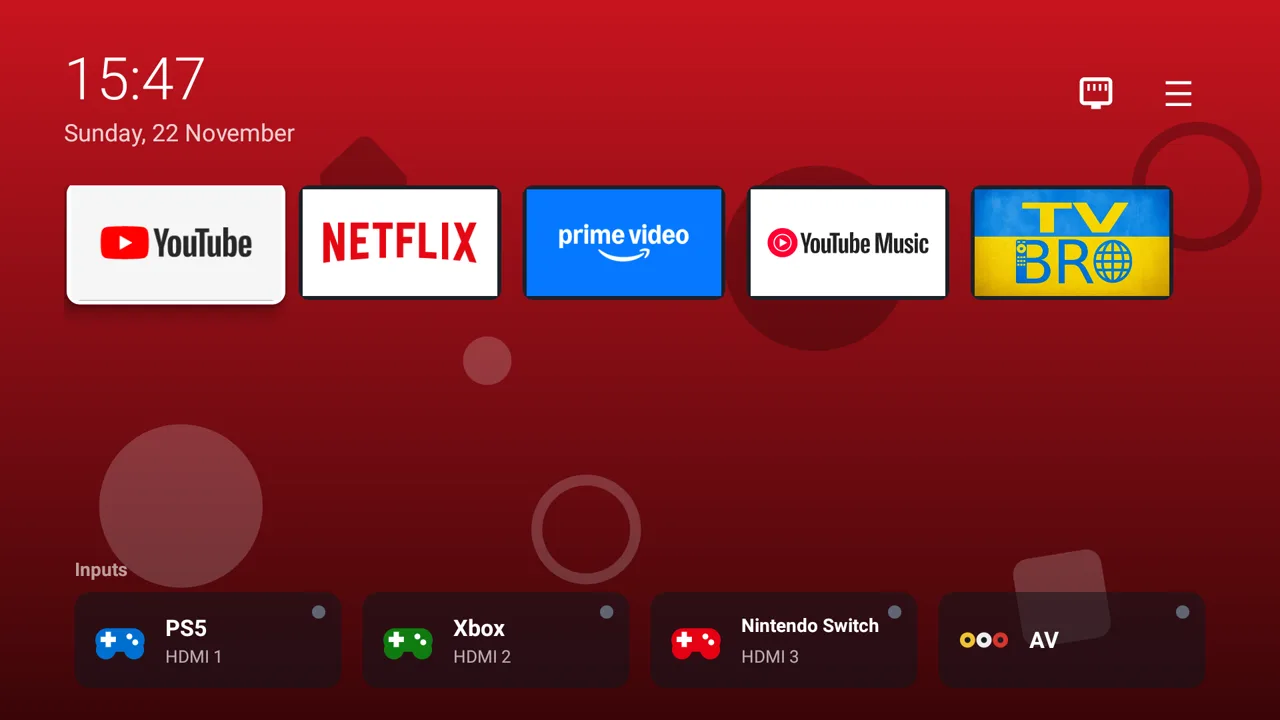
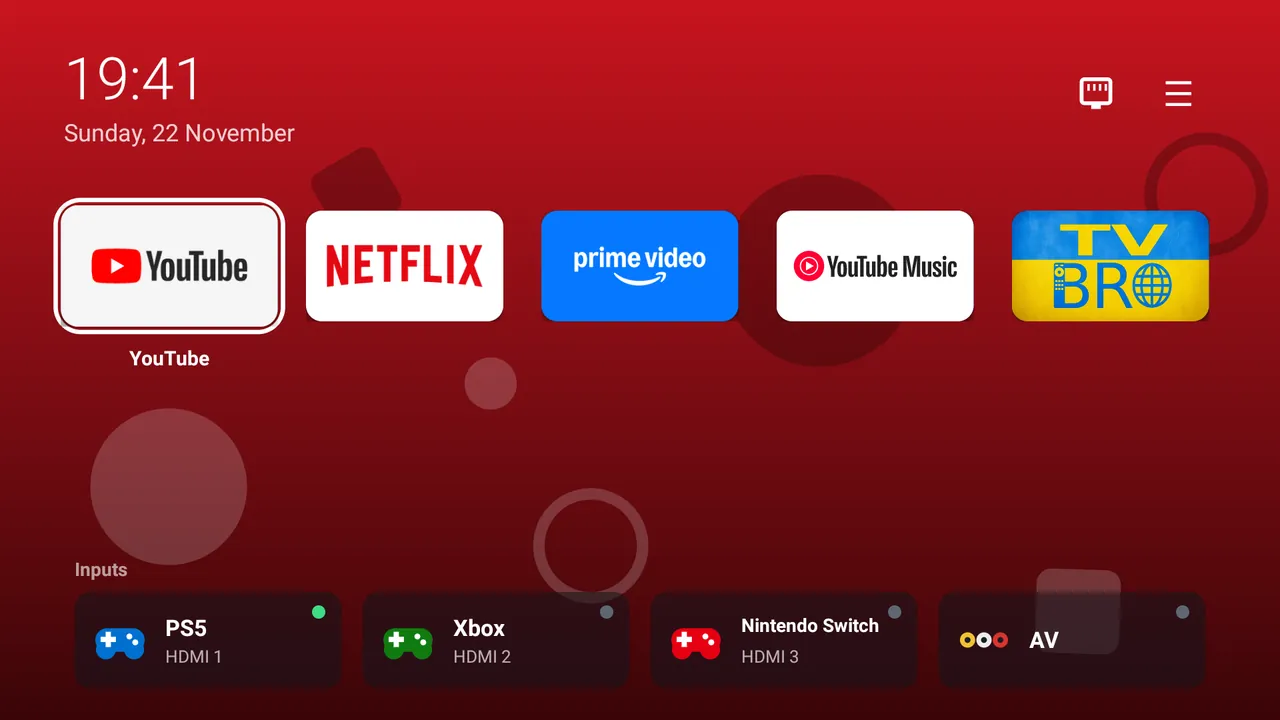
fix(launcher): keep the zoomed edge tiles unclipped; docs and screenshots for new tiles (#29)

diff --git a/apps/home/src/io/github/yohannaftali/axshome/HomeActivity.java b/apps/home/src/io/github/yohannaftali/axshome/HomeActivity.java
@@ -138,6 +138,8 @@ public final class HomeActivity extends Activity {
         LinearLayout content = new LinearLayout(this);
         content.setOrientation(LinearLayout.VERTICAL);
         content.setPadding(dp(48), dp(28), dp(48), dp(24));
+        content.setClipToPadding(false);
+        content.setClipChildren(false);
         root.addView(content, new FrameLayout.LayoutParams(
                 ViewGroup.LayoutParams.MATCH_PARENT, ViewGroup.LayoutParams.MATCH_PARENT));
 
@@ -774,6 +776,7 @@ public final class HomeActivity extends Activity {
         list.setOrientation(LinearLayout.VERTICAL);
         list.setPadding(dp(48), dp(36), dp(48), dp(36));
         list.setClipChildren(false);
+        list.setClipToPadding(false);
         list.addView(label("All apps", 22, Color.WHITE, true));
         LinearLayout row = null;
         View first = null;

diff --git a/CHANGE_HISTORY.md b/CHANGE_HISTORY.md
@@ -3,6 +3,15 @@
 Newest first. Never include the TV IP, Netflix ESN, serial, MACs or account
 names — see `AGENTS.md` → Private data.
 
+## [2026-11-22] — feat(launcher): modern app tiles with focus ring, even row and sideways scrolling (#29)
+- Issue #29
+- Files: apps/home/src/.../HomeActivity.java, changes/1-fast-home/README.md
+- Tiles: rounded, clipped banners with a soft shadow; focus draws a white ring outside the banner (visible on white banners), zooms 1.1x and shows the app name; amber ring while moving
+- One row spread evenly; more apps scroll sideways; rearrange is LEFT/RIGHT only
+- Fixed during test: the page and All apps layouts clipped the zoomed first tile at their padding
+- Verified on TV: ring on all sides for the first and last tile, move mode, 9-app scroll (temporary config, then restored), All apps, cold start 564–593 ms (avg 575, +6%), wallpaper CPU ~13% of one core
+- TV state left: applied
+
 ## [2026-11-22] — chore: rename repository to mitv-axso2
 - GitHub repo renamed from `mitv-axs02` (zero) to `mitv-axso2` (letter O, matching the model); GitHub redirects the old URL
 - Files: README.md (title, clone commands, model note), AGENTS.md (remote), planner and reviewer skills (repo slug)

diff --git a/changes/1-fast-home/README.md b/changes/1-fast-home/README.md
@@ -16,9 +16,11 @@ Layout since #18:
  | 🎮 PS5 ● HDMI 1 | 🎮 Xbox ● HDMI 2 | 🎮 Switch ● HDMI 3 | ○○○ AV ● |
 ```
 
-- **Apps grid**: OK opens an app. HOME always lands on the first app.
-- **Rearrange on the TV**: long-press OK on an app, move it with the arrows
-  (it swaps places), OK to place. The order is kept across restarts and
+- **Apps row**: one row spread evenly across the screen; with more apps it
+  scrolls sideways. The selected banner zooms in with a white ring around it
+  and its name underneath. OK opens an app. HOME always lands on the first app.
+- **Rearrange on the TV**: long-press OK on an app (the ring turns amber),
+  move it with LEFT/RIGHT (it swaps places), OK to place. The order is kept across restarts and
   reboots. ☰ → *Reset app order* goes back to the `home.conf` order.
 - **Inputs bar** (bottom): OK switches to that input; DOWN from the apps
   reaches it. A labelled input shows the label and its port; an unlabelled one

diff --git a/README.md b/README.md
@@ -15,8 +15,10 @@ access, and it opens in about half a second.
 
 ![AXS Home with the Waves wallpaper: clock, apps row, inputs bar](docs/screenshots/home-waves.webp)
 
-- **Apps**: YouTube, Netflix, Prime Video, YouTube Music, Browser (TV Bro).
-  Long-press OK to rearrange them on the TV.
+- **Apps**: YouTube, Netflix, Prime Video, YouTube Music, Browser (TV Bro),
+  spread evenly in one row that scrolls sideways when you add more. The
+  selected app zooms in with a ring around it, console-style. Long-press OK
+  to rearrange them on the TV.
 - **Inputs**: PS5 / HDMI 1, Xbox / HDMI 2, Nintendo Switch / HDMI 3, AV. OK
   switches input; the dot turns green while the input is sending a picture.
 - **Top right**: network status (Ethernet or Wi-Fi) and the ☰ menu (Settings,

diff --git a/AGENTS.md b/AGENTS.md
@@ -128,3 +128,4 @@ Rules:
 | #24 | feat(launcher): Home settings page with 12/24-hour clock choice | closed | 2026-11-22 |
 | #25 | feat(launcher): built-in animated wallpapers Waves, Orbit, Pop and Bloom | closed | 2026-11-22 |
 | #26 | feat(launcher): custom wallpapers from USB and Downloads (images, GIF/WebP, MP4) | closed | 2026-11-22 |
+| #29 | feat(launcher): modern app tiles with console-style focus ring, centred row and sideways scrolling | closed | 2026-11-22 |
